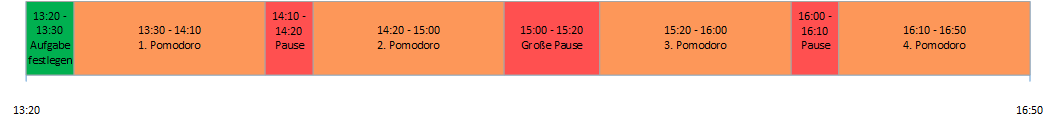
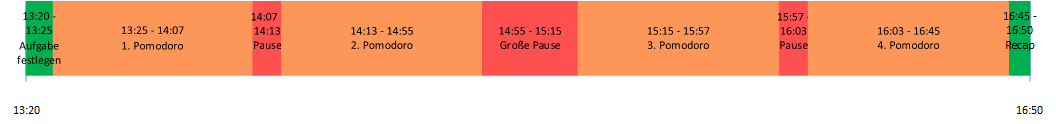
Pomodori und Pausen angepasst

Changed region(s): [[0.0, 0.0, 1.0, 0.629]]

diff --git a/README.md b/README.md
@@ -1,6 +1,6 @@
 # Pomodorotechnik - Labor
 
-Für gesteigerte Produktivität im Labor empfiehlt sich die Pomodrotechnik.
+Für gesteigerte Produktivität im Labor empfiehlt sich die Pomodorotechnik.
 
 ## Timeline
 
@@ -8,12 +8,13 @@ Für gesteigerte Produktivität im Labor empfiehlt sich die Pomodrotechnik.
 
 ## Ablaufbeschreibung
 
-1. Aufgabe schriftlich zusammenfassen (Was willst du an diesem Tag im Labor erreichen?)
-2. Konzentriertes Arbeiten für 40 Minuten.
-3. 10 Minuten Pause
+1. Aufgabe schriftlich zusammenfassen (Was willst du an diesem Tag im Labor erreichen?): 5min
+2. Konzentriertes Arbeiten: 42min
+3. Pause: 6min
 4. wiederhole die Punkte 2-3
-5. 25 Minuten Pause
+5. Große Pause: 20min
 6. wiederhole die Punkte 2-4
+7. Recap: **GIT PUSH nicht vergessen** und zusammenpacken: 5min
 
 ## Quellen
 
